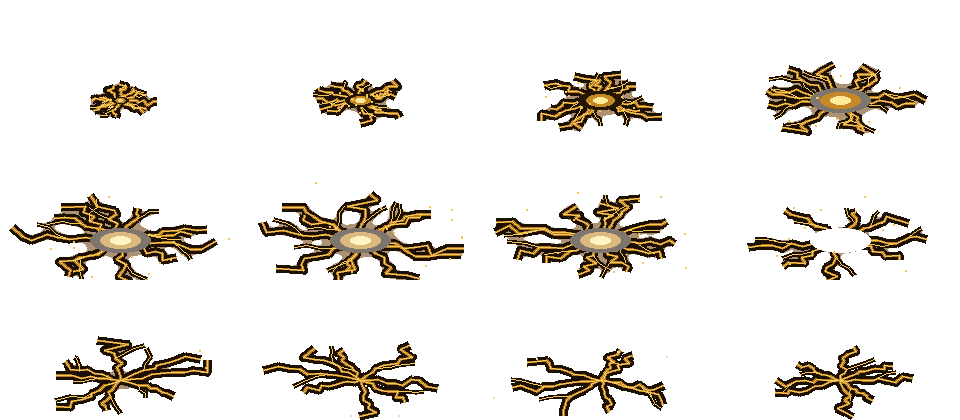
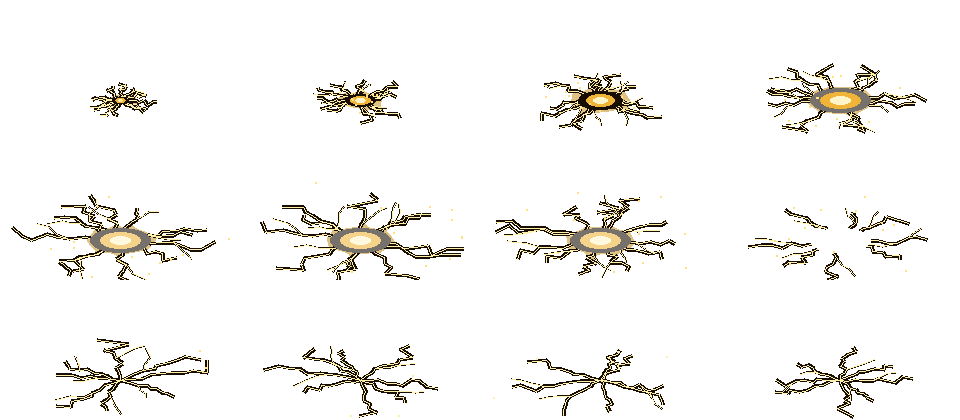
Kiếm: khôi phục bùa Thiên Xu, giảm vệt Hồi Phong, sét C chạm đất + sét tỏa mỏng, cự kiếm PixelLab pixel thật
Claude-Session: https://claude.ai/code/session_01QQj46rsF4z2ee4KuP8oJja

diff --git a/game/index.html b/game/index.html
@@ -2399,7 +2399,7 @@ const WEAPONS={
     const FIVE=[0,1,2,3,4].map(i=>{const an=-Math.PI/2+i*TAU/5;return{x:tx+Math.cos(an)*R*0.72,y:ty+Math.sin(an)*R*0.72*0.55}});
     if(vok('bagua_vang'))fx({k:'img',n:'bagua_vang',x:tx,y:ty+4,s0:0.5,s1:R*2.3/220,sy:0.55,spin:0.9,T:1.5,al:0.9,gr:1});
     if(vok('bua_vang'))FIVE.forEach((q,i)=>fx({k:'bua',n:'bua_vang',x0:q.x+rnd(-20,20),y0:q.y-300,x1:q.x,y1:q.y-18,fl:0.3+i*0.05,rt:(i%2?0.2:-0.2),T:1.3}));
-    later(0.55,()=>{for(const e of enemiesIn(tx,ty,R))hit(e,dmg,H({kb:140,stun:0.5}),tx,ty);G.shake=Math.max(G.shake||0,8);fx({k:'ring',x:tx,y:ty,r0:20,r1:R,c:'#ffd45a',T:0.4});fx({k:'ring',x:tx,y:ty,r0:10,r1:R*0.64,c:'#4a3006',T:0.5});burst(tx,ty,'#ffd45a',14);burst(tx,ty,'#3a2606',10);const NO=vok('set_no_vang')?'set_no_vang':'set_no_do';if(vok(NO)){fx({k:'sp',s:NO,x:tx,y:ty+4,sc:1.7,T:0.75,al:0.78});later(0.14,()=>{fx({k:'sp',s:NO,x:tx,y:ty+4,sc:1.1,T:0.6,al:0.65})},null)}if(vok('set_bolt_vang'))FIVE.forEach((q,i)=>{later(i*0.05,()=>{fx({k:'sp',s:'set_bolt_vang',x:q.x,y:q.y,sc:1.4,T:0.6,al:1});fx({k:'ring',x:q.x,y:q.y,r0:4,r1:30,c:'#fff0a0',T:0.3})},null)});sfx('sword_hit',0.7,0.1)},null);
+    later(0.55,()=>{for(const e of enemiesIn(tx,ty,R))hit(e,dmg,H({kb:140,stun:0.5}),tx,ty);G.shake=Math.max(G.shake||0,8);fx({k:'ring',x:tx,y:ty,r0:20,r1:R,c:'#ffd45a',T:0.4});fx({k:'ring',x:tx,y:ty,r0:10,r1:R*0.64,c:'#4a3006',T:0.5});burst(tx,ty,'#ffd45a',14);burst(tx,ty,'#3a2606',10);const NO=vok('set_no_vang')?'set_no_vang':'set_no_do';if(vok(NO)){fx({k:'sp',s:NO,x:tx,y:ty+4,sc:1.7,T:0.75,al:0.78});later(0.14,()=>{fx({k:'sp',s:NO,x:tx,y:ty+4,sc:1.1,T:0.6,al:0.65})},null)}if(vok('set_bolt_vang'))FIVE.forEach((q,i)=>{later(i*0.05,()=>{fx({k:'sp',s:'set_bolt_vang',x:q.x,y:q.y,sc:1.4,T:0.6,al:1});fx({k:'ring',x:q.x,y:q.y,r0:4,r1:34,c:'#fff0a0',T:0.3});fx({k:'ring',x:q.x,y:q.y,r0:2,r1:16,c:'#ffffff',T:0.16});if(vok(NO))fx({k:'sp',s:NO,x:q.x,y:q.y+2,sc:0.5,T:0.5,al:0.9});burst(q.x,q.y,'#ffe08a',9);G.shake=Math.max(G.shake||0,2)},null)});sfx('sword_hit',0.7,0.1)},null);
     notice('Thái Thượng Trảm Ma')}},
  ]},
  quyen:{name:'Quyền',g:'拳',role:'Cận chiến, liên kích, cương khí',tr:'Liên quyền, quyền khí xuyên, chấn địa, liên hoàn cương quyền',kit:[
@@ -3359,12 +3359,12 @@ function updZones(dt){
   if(z.kind==='blades'&&!z.sw){z.rot+=dt*5;for(let i=0;i<z.n;i++){const a=z.rot+i*TAU/z.n,bx=z.x+Math.cos(a)*z.r,by=z.y-10+Math.sin(a)*z.r*0.8;for(const e of enemiesIn(bx,by,16)){if((z.hm.get(e)||0)>G.t)continue;z.hm.set(e,G.t+0.35);hit(e,z.dmg,z.o,z.x,z.y)}}}
   else if(z.kind==='blades'){/* Linh Kiếm Hộ Pháp: phi kiếm bay vòng (chu kỳ 3,2s như bản gốc), thấy quái gần thì lao tới chém rồi quay về */
    z.rot+=dt*TAU/3.2;const RX=92*Ar(),RY=55*Ar();
-   for(let i=0;i<z.n;i++){const s=z.sw[i],a=z.rot+i*TAU/z.n,ox=z.x+Math.cos(a)*RX,oy=z.y-28+Math.sin(a)*RY;if(z.passive){if(!s.on)continue;s.life-=dt;if(s.life<=0&&s.st===0){s.on=0;fx({k:'ring',x:s.x,y:s.y,r0:6,r1:26,c:'#ffe08a',T:0.22});continue}}s.t=(s.t||0)+dt;s.tr=s.tr||[];s.tr.push([s.x,s.y]);if(s.tr.length>14)s.tr.shift();
+   for(let i=0;i<z.n;i++){const s=z.sw[i],a=z.rot+i*TAU/z.n,ox=z.x+Math.cos(a)*RX,oy=z.y-28+Math.sin(a)*RY;if(z.passive){if(!s.on)continue;s.life-=dt;if(s.life<=0&&s.st===0){s.on=0;fx({k:'ring',x:s.x,y:s.y,r0:6,r1:20,c:'#b89a55',T:0.18});continue}}s.t=(s.t||0)+dt;s.tr=s.tr||[];s.tr.push([s.x,s.y]);if(s.tr.length>14)s.tr.shift();
     if(s.st===0){const px=s.x,py=s.y;s.x=ox;s.y=oy;s.ang=a+Math.PI/2;
      if(z.t>s.nx&&z.t<z.T-0.5){let best=null,bd=1e9;for(const e of enemiesIn(z.x,z.y,240)){if(e.dead||e.brk)continue;const dd=Math.hypot(e.x-z.x,e.y-z.y);if(dd<bd&&!z.sw.some(q=>q!==s&&q.e===e&&q.st===1)){bd=dd;best=e}}
       if(best){s.st=1;s.t=0;s.e=best;s.fx0=s.x;s.fy0=s.y}else s.nx=z.t+0.25}}
     else if(s.st===1){const e=s.e,tx=e.x,ty=e.y-(e.r||14)*1.2,k=Math.min(1,s.t/0.16);s.ang=Math.atan2(ty-s.fy0,tx-s.fx0);s.x=s.fx0+(tx-s.fx0)*k;s.y=s.fy0+(ty-s.fy0)*k;
-     if(k>=1){if(!e.dead){hit(e,z.dmg,z.o,s.x,s.y);hitFx(s.x,s.y,Math.atan2(ty-s.fy0,tx-s.fx0),0.9)}s.st=2;s.t=0;s.fx0=s.x;s.fy0=s.y;s.e=null}}
+     if(k>=1){if(!e.dead){hit(e,z.dmg,z.o,s.x,s.y);hitFx(s.x,s.y,Math.atan2(ty-s.fy0,tx-s.fx0),0.6,0.7,0.14)}s.st=2;s.t=0;s.fx0=s.x;s.fy0=s.y;s.e=null}}
     else{const k=Math.min(1,s.t/0.24),q=k*k*(3-2*k);s.x=s.fx0+(ox-s.fx0)*q;s.y=s.fy0+(oy-s.fy0)*q;s.ang=Math.atan2(oy-s.fy0,ox-s.fx0)+Math.PI;if(k>=1){s.st=0;s.nx=z.t+0.55}}}}
   else if(z.kind==='staffx'){const k=z.t/z.T,e=k<0.45?1-Math.pow(1-k/0.45,3):k<0.72?1:1-Math.pow((k-0.72)/0.28,1.6);z.e=e;const L=40+z.len*e,ux=Math.cos(z.ta)*z.fc,uy=Math.sin(z.ta),hx=P.x+z.fc*(-27),hy=P.y-63;z.x=P.x;z.y=P.y;
    if(!z.tip&&e>=0.97){z.tip=1;if(vok('wk_hit'))fx({k:'sp',s:'wk_hit',x:hx+ux*L,y:hy+uy*L,sc:0.8,f0:2,f1:5,T:0.18});if(vok('wk_stomp'))fx({k:'sp',s:'wk_stomp',x:hx+ux*L,y:hy+uy*L+16,sc:0.9,f0:1,T:0.45,al:0.9});fx({k:'ring',x:hx+ux*L,y:hy+uy*L,r0:14,r1:80,c:'#ffe9a0',T:0.32});burst(hx+ux*L,hy+uy*L,'#ffd36a',14)}
@@ -3604,7 +3604,7 @@ function drawZone(z){
  else if(z.kind==='blades'&&z.sw&&vok('hp_guard')){const S0=0.88*Ar();
   const wart0=HERO.wg?heroWeaponArt(HERO.wg):null,wart=wart0&&WPN[wart0+'_f']?wart0+'_f':wart0,wk=wart0?Math.max(0.8,58/WPN[wart0][0])*Ar():0;/* kiếm mặc định chỉ có lưỡi (chuôi nằm dưới nắm tay): kiếm bay dùng bản có chuôi _f (PixelLab edit-images-v2) */
   for(const s of z.sw){if(z.passive&&!s.on)continue;const tr=s.tr||[];/* vệt bay: 2 nét mảnh như bản gốc (lớp sáng rộng mờ + lõi mảnh) */
-   if(tr.length>2){for(const [wd,col] of [[12,'rgba(255,214,110,.16)'],[1.6,'rgba(255,232,160,.7)']]){c.strokeStyle=col;c.lineCap='round';for(let i=1;i<tr.length;i++){c.lineWidth=wd*S0*(i/tr.length);c.beginPath();c.moveTo(tr[i-1][0],tr[i-1][1]);c.lineTo(tr[i][0],tr[i][1]);c.stroke()}}}
+   if(tr.length>2){for(const [wd,col] of [[10,'rgba(255,214,110,.05)'],[1.4,'rgba(255,232,160,.3)']]){c.strokeStyle=col;c.lineCap='round';for(let i=1;i<tr.length;i++){c.lineWidth=wd*S0*(i/tr.length);c.beginPath();c.moveTo(tr[i-1][0],tr[i-1][1]);c.lineTo(tr[i][0],tr[i][1]);c.stroke()}}}
    c.save();c.translate(s.x,s.y);if(wart){c.rotate(s.ang);c.scale(wk,wk);c.translate(-WPN[wart][4]/2+WPN[wart][2]*0,0);drawWeaponOutline(c,wart,1.3/wk);drawWeaponArt(c,wart,0,0,1);}else{c.rotate(s.ang-Math.PI/2);c.scale(S0,S0);c.drawImage(VFX.hp_guard,-64,-64,128,128)}c.restore()}}
  else if(z.kind==='blades'){c.globalCompositeOperation='lighter';for(let i=0;i<z.n;i++){const an=z.rot+i*TAU/z.n,bx=z.x+Math.cos(an)*z.r,by=z.y-10+Math.sin(an)*z.r*0.8;c.save();c.translate(bx,by);c.rotate(an+Math.PI/2);if(vok('wanjian_sword')){c.globalCompositeOperation='source-over';c.drawImage(VFX.wanjian_sword,-30,-36,60,60);c.globalCompositeOperation='lighter';c.restore();continue}c.fillStyle='rgba(120,200,255,.35)';ell(0,0,7,20);c.fillStyle='#dff2ff';c.beginPath();c.moveTo(0,-18);c.lineTo(3,4);c.lineTo(0,9);c.lineTo(-3,4);c.fill();c.restore()}}
  else if(z.kind==='vkx'){/* VẠN KIẾM QUY TÔNG (ultimate, 24/11 làm lại theo video mod kiếm băng): nền tối đi + trận pháp rune xoay dưới chân + 8 kiếm CẦM TAY nhô lên từ đất (cột sáng, tia điện, phát sáng) + đại kiếm giữa trận; 6 đợt bay theo làn ngắm (1,2 s + 0,32 s/đợt) kèm luồng sáng quét làn, đại kiếm phóng cuối */
@@ -3642,11 +3642,11 @@ function drawZone(z){
   if(vok('bagua_vang')){const k0=clamp(tt/0.7,0,1),pul=1+Math.sin(G.t*4)*0.015;c.save();c.translate(z.x,z.y);c.scale(1,z.ry/z.rx);c.rotate(G.t*0.35);c.globalAlpha=0.92*ringA*k0;c.imageSmoothingEnabled=false;const D=z.rx*2.38*(0.55+0.45*k0)*pul;c.drawImage(VFX.bagua_vang,-D/2,-D/2,D,D);c.restore()}
   c.save();c.globalAlpha=0.55*ringA;c.strokeStyle='#e8c25a';c.lineWidth=1.5;c.beginPath();c.ellipse(z.x,z.y,z.rx,z.ry,0,0,TAU);c.stroke();c.restore();
   for(let i=0;i<N;i++){const ph=i*TAU/N-0.6+(tt>z.land?(tt-z.land)*TAU/4.2:0),px=z.x+Math.cos(ph)*z.rx,py=z.y+Math.sin(ph)*z.ry,ti=0.1+i*0.14,k=clamp((tt-ti)/0.4,0,1);items.push({px,py,yo:-(1-k*k)*z.h-outk*outk*90,al:Math.min(1,k*3)*(1-outk),k})}
-  items.sort((a,b)=>a.py-b.py);for(const it of items){if(it.al<=0.01)continue;c.save();c.globalAlpha=0.3*it.al*Math.min(1,it.k*2);c.fillStyle='#0b1226';c.beginPath();c.ellipse(it.px,it.py,9,4,0,0,TAU);c.fill();c.restore();c.save();c.globalAlpha=it.al;c.imageSmoothingEnabled=true;c.imageSmoothingQuality='high';c.translate(it.px,it.py+it.yo);c.scale(s,s);c.drawImage(CKI,-W/2,-Hh);c.restore();}}
+  items.sort((a,b)=>a.py-b.py);for(const it of items){if(it.al<=0.01)continue;c.save();c.globalAlpha=0.3*it.al*Math.min(1,it.k*2);c.fillStyle='#0b1226';c.beginPath();c.ellipse(it.px,it.py,9,4,0,0,TAU);c.fill();c.restore();c.save();c.globalAlpha=it.al;c.imageSmoothingEnabled=true;c.imageSmoothingQuality='high';c.translate(it.px,it.py+it.yo);c.scale(s,s);c.drawImage(CKI,-W/2,-Hh);c.restore();if(vok('bua_vang')&&it.k>0.9){const sw=Math.sin(G.t*3+it.px*0.05)*0.18;c.save();c.globalAlpha=it.al;c.imageSmoothingEnabled=false;c.translate(Math.round(it.px),Math.round(it.py+it.yo-Hh*s*0.78));c.rotate(sw);c.scale(0.9,0.9);c.drawImage(VFX.bua_vang,-8,0);c.restore()}}}
  else if(z.kind==='vkbig'){const art0=z.art,art=(WPN[art0+'_f']&&WIMG[art0+'_f']&&WIMG[art0+'_f'].complete)?art0+'_f':art0,w=WPN[art],FALL=0.55,sc=3.4;
-  const k=Math.min(1,z.t/FALL),e=k*k,top=z.y-(CKI.complete&&CKI.naturalWidth?470:460),ty=top+(z.y-top)*e,al=z.t<FALL?1:Math.max(0,1-(z.t-FALL-0.7)/0.45);
+  const k=Math.min(1,z.t/FALL),e=k*k,top=z.y-(CKI.complete&&CKI.naturalWidth?420:460),ty=top+(z.y-top)*e,al=z.t<FALL?1:Math.max(0,1-(z.t-FALL-0.7)/0.45);
   c.save();c.translate(z.x,z.y);c.scale(1,0.4);c.globalAlpha=0.35*Math.min(1,k*1.4)*(z.t<FALL?1:al);c.fillStyle='#0b1226';c.beginPath();c.arc(0,0,22+60*k,0,TAU);c.fill();c.restore();
-  if(al>0.01&&CKI.complete&&CKI.naturalWidth){c.save();c.globalAlpha=al;c.imageSmoothingEnabled=false;c.translate(Math.round(z.x),Math.round(ty));c.scale(1.3,1.3);c.drawImage(CKI,-CKI.naturalWidth/2,-CKI.naturalHeight);c.restore()}
+  if(al>0.01&&CKI.complete&&CKI.naturalWidth){c.save();c.globalAlpha=al;c.imageSmoothingEnabled=false;const nz=Math.max(1,ZOOM*DPR),ks=Math.max(1,Math.round(nz))/nz;c.translate(Math.round(z.x),Math.round(ty));c.scale(ks,ks);c.drawImage(CKI,-CKI.naturalWidth/2,-CKI.naturalHeight);c.restore()}
   else if(al>0.01){c.save();c.globalAlpha=al;c.translate(z.x,ty);c.scale(sc,sc);c.rotate(Math.PI/2);c.translate(-(w[0]-w[2]),0);drawWeaponOutline(c,art,1.2/sc);drawWeaponArt(c,art,0,0,1);c.restore()}}
  else if(z.kind==='qypalm'&&vok('qy_hand')){/* 25/11 BÀN TAY QUỶ (gói Wuxia 04_Rulai): chủ game chê "không giống": bản gốc chỉ thấy bàn tay ~0,2 s cuối và nằm ngang. Nay: cột hào quang vàng từ trời, bàn tay VÀNG khổng lồ dựng đứng (ngón hướng lên) hiện sớm, lơ lửng to dần rồi giáng xuống; chạm đất: chớp vàng, vết chưởng in sáng, đá và bụi bắn ra */const D=0.95,tt=z.t;
   if(tt<D){c.save();c.translate(z.x,z.y);c.scale(1,0.4);c.globalAlpha=0.4*Math.pow(tt/D,3);c.fillStyle='#10061c';c.beginPath();c.arc(0,0,40+190*Math.pow(tt/D,3),0,TAU);c.fill();c.globalCompositeOperation='lighter';c.globalAlpha=0.6*(0.3+0.7*(1-Math.pow(tt/D,3)));c.strokeStyle='#9a70ff';c.lineWidth=3;c.beginPath();c.arc(0,0,220+80*(1-Math.pow(tt/D,3)),0,TAU);c.stroke();c.restore()}

diff --git a/cong_cu/claude/set_no_vang_mong.py b/cong_cu/claude/set_no_vang_mong.py
@@ -1,0 +1,56 @@
+"""(25/11 bản MỎNG VÀNG cho C Thái Thượng Trảm Ma; bản gốc đỏ dày nằm ở git) Sét NỔ TỎA ra từ mũi cự kiếm Vạn Kiếm (24/11, tự làm). Ra game/assets/vfx/set_no_do.png: 12 khung 240x140, 4 cột, tâm nổ ở (120,100).
+Các tia sét gấp khúc bung ra mọi hướng quanh tâm (ép dẹt theo mặt đất, vài tia bắn lên), đổi hình mỗi khung; viền đen, thân đỏ, lõi sáng."""
+import random,math
+from PIL import Image,ImageDraw,ImageFilter
+W,H=240,140;CX,CY=120,100;N=12;COLS=4
+def arc(rnd,ang,length,flat=0.5,seg=9,amp=7):
+    pts=[(CX,CY)]
+    for i in range(1,seg+1):
+        t=i/seg;r=length*t;a=ang+rnd.uniform(-0.13,0.13)*(0.4+t)
+        up=-abs(math.sin(ang))*0.0
+        pts.append((CX+math.cos(a)*r+rnd.uniform(-amp,amp)*0.3,CY+math.sin(a)*r*flat+rnd.uniform(-amp,amp)*0.4*flat))
+    return pts
+def frame(f):
+    rnd=random.Random(500+f*13)
+    im=Image.new('RGBA',(W,H),(0,0,0,0))
+    q=f/(N-1);grow=min(1,f/4.0);fade=1.0 if f<=6 else max(0,1-(f-6)/5.5)
+    arcs=[]
+    if fade>0:
+        n=12 if f<=6 else 8
+        for i in range(n):
+            ang=i*math.tau/n+rnd.uniform(-0.35,0.35)
+            L=rnd.uniform(70,112)*(0.35+0.65*grow)*(0.8+0.2*fade)
+            main=arc(rnd,ang,L,flat=0.42)
+            arcs.append((main,1.0))
+            if len(main)>5 and rnd.random()<0.8:
+                k=rnd.randint(3,6);bx,by=main[k];ba=ang+rnd.choice([-1,1])*rnd.uniform(0.5,0.9)
+                bp=[(bx,by)]
+                for j in range(1,4):
+                    bp.append((bx+math.cos(ba)*L*0.13*j+rnd.uniform(-3,3),by+math.sin(ba)*L*0.13*j*0.55+rnd.uniform(-2,2)))
+                arcs.append((bp,0.6))
+    glow=Image.new('L',(W,H),0);gd=ImageDraw.Draw(glow)
+    for pl,s in arcs:gd.line(pl,fill=255,width=max(2,int(3*s)),joint='curve')
+    ell=int(34*min(1,0.4+grow)*fade+2)
+    gd.ellipse([CX-ell,CY-int(ell*0.45),CX+ell,CY+int(ell*0.45)],fill=200)
+    glow=glow.filter(ImageFilter.GaussianBlur(3))
+    g=Image.new('RGBA',(W,H),(200,150,40,0));g.putalpha(glow.point(lambda v:int(min(255,v*0.3*fade))));im.alpha_composite(g)
+    d=ImageDraw.Draw(im)
+    for pl,s in arcs:d.line(pl,fill=(24,14,4,255),width=int(3*s)+1,joint='curve')
+    for pl,s in arcs:d.line(pl,fill=(240,180,56,255),width=1,joint='curve')
+    for pl,s in arcs:d.line(pl,fill=(255,240,170,255),width=1,joint='curve')
+    # chớp lõi tại tâm nổ
+    if f<=7:
+        a=int(255*(1-f/8.0));rx=int(8+22*min(1,f/3.0));ry=max(3,int(rx*0.42))
+        d.ellipse([CX-rx,CY-ry,CX+rx,CY+ry],fill=(24,14,4,int(a*0.9)))
+        d.ellipse([CX-rx*2//3,CY-ry*2//3,CX+rx*2//3,CY+ry*2//3],fill=(240,180,56,a))
+        d.ellipse([CX-rx//3,CY-ry//3,CX+rx//3,CY+ry//3],fill=(255,245,200,a))
+    # tia lửa
+    for _ in range(14 if f<8 else 4):
+        ang=rnd.uniform(0,math.tau);r=rnd.uniform(30,115)*grow;sx=CX+math.cos(ang)*r;sy=CY+math.sin(ang)*r*0.5-rnd.uniform(0,18)*q
+        d.rectangle([sx,sy,sx+1,sy+1],fill=(255,225,130,int(255*fade)))
+    a=im.getchannel('A').point(lambda v:0 if v<50 else 255 if v>150 else 150);im.putalpha(a)
+    return im
+sheet=Image.new('RGBA',(W*COLS,H*((N+COLS-1)//COLS)),(0,0,0,0))
+for f in range(N):sheet.paste(frame(f),((f%COLS)*W,(f//COLS)*H))
+sheet.save('game/assets/vfx/set_no_vang.png')
+

diff --git a/nguon/pixellab/cukiem2/gen.py b/nguon/pixellab/cukiem2/gen.py
@@ -1,0 +1,8 @@
+import json,base64,importlib.util
+spec=importlib.util.spec_from_file_location('pl','/home/user/hoathan/cong_cu/claude/pl.py');pl=importlib.util.module_from_spec(spec);spec.loader.exec_module(pl)
+ST=" Pixel art game weapon sprite, dark gloomy Chinese wuxia style, muted palette, thick black outline, rich pixel shading, single isolated object, transparent background, no hand, no person, no text."
+D="a giant ancient Chinese jian greatsword pointing straight DOWN, long wide dark blue-black steel blade with a bright pale-blue central fuse line and etched talisman runes, sharp pointed tip at the bottom, ornate gold-bronze cross guard, leather wrapped long grip, jade pommel at the top, perfectly vertical symmetric"
+for seed in (3,17,41):
+    j=pl.req('POST','/create-image-pixflux',{"description":D+ST,"image_size":{"width":80,"height":288},"no_background":True,"detail":"highly detailed","outline":"single color black outline","shading":"detailed shading","seed":seed})
+    im=j['image'];im=im.get('base64') if isinstance(im,dict) else im
+    open(f'/home/user/hoathan/nguon/pixellab/cukiem2/s{seed}.png','wb').write(base64.b64decode(im.split(',')[-1]));print(seed,'ok',flush=True)

diff --git a/CLAUDE.md b/CLAUDE.md
@@ -714,3 +714,5 @@ Quyết định (chủ game không chọn riêng nên lấy đề xuất): hình
 - (25/11 đêm) **GÓI TÀI NGUYÊN (`PACKS`, `packWant`, `window.__packs()`)**: mọi thứ tải theo gói, chỉ kéo khi cần. Thêm nội dung mới: **map** = khai báo `MAPS`/`MM` (tự vào `packMapNames`, `prefetchMap`); **quái** = thêm vào `CHM`/`ESPR` và `pool`/`xt` của chặng hoặc map (`monsForFloor`, `monsForRoute`); **phái mới** = thêm tiền tố VFX vào `PACKS.vfx`; **thần tướng** = `PACKS.vfx.god` + sheet `god_*`. Kiểm ngân sách sau khi thêm: `bash cong_cu/claude/pack_check.sh` (`pack_dump.js` đo, `pack_budget.py` so ngưỡng: mở game ≤5 MB, map ≤3 MB/45 MB giải nén, VFX phái ≤3,5/80, quái mỗi tầng ≤2,5/40, thần tướng ≤1/25; thoát mã 1 nếu vượt). Kết quả hiện tại: mọi gói đạt (mở game 4,8 MB/159 file; map lớn nhất 1,2 MB; VFX phái lớn nhất 2,5 MB Trượng). Đã kiểm lại 8 map, quái tầng 1/18, 4 phái, Thần Giáng, màn tạo nhân vật: 0 lỗi. Thêm ảnh mới nhớ chạy `png_palette.py`.
 
 - (25/11 đêm) **Chủ game: bỏ bùa dính trên kiếm, "không phải skill nào nhét bùa chú vào cũng đẹp".** Đã bỏ lá bùa ở chuôi: phi kiếm Linh Kiếm Hộ Pháp, 8 kiếm Vạn Kiếm Tru Ma, 7 kiếm Thiên Cương Trấn Ma Trận. Bùa còn lại (chưa bị chê): bát quái vàng/đỏ dưới đất, bùa Q dán quái, ngũ lôi phù của C, ấn bùa trên đầu quái. **Vạn Kiếm: kiếm vẽ pixel thật** (1 pixel ảnh = số nguyên pixel màn hình, `wk=round(ZOOM*DPR)/(ZOOM*DPR)`, bỏ phóng 1,7×Ar; đại kiếm ×2 nguyên thay ×2,4), nên kiếm nhỏ hơn trước nhưng nét. Ảnh: `nguon/tham_chieu/vankiem_pixel_that_khong_bua.png`, `hoiphong_khong_bua.png`.
+
+- (25/11 đêm) **Chủ game chỉnh Kiếm (có lệnh dùng PixelLab riêng cho cự kiếm, 3 lượt, còn ~1.418):** (1) Thiên Cương Trấn Ma Trận: GIỮ bùa treo kiếm như cũ (khôi phục). (2) Linh Kiếm Hộ Pháp: giảm vệt vàng khi kiếm đánh quái (vệt bay alpha .16→.05 / .7→.3, chớp trúng 0,9→0,6 dẹt, vòng tan 26→20 màu nhạt). (3) **C Thái Thượng Trảm Ma:** mỗi tia sấm chạm đất nay có chớp trắng + vòng + sét tỏa nhỏ `set_no_vang` sc 0,5 + hạt + rung nhẹ (trước trông như không đánh xuống đất); sét tỏa từ chân cự kiếm làm MỎNG (`cong_cu/claude/set_no_vang_mong.py`: viền 3, thân 1 px, quầng nhạt, vàng). (4) **Cự kiếm `wpn/cukiem.png` vẽ lại bằng PixelLab pixflux 80×288 (seed 17, `nguon/pixellab/cukiem2/`), 54×273 sau cắt, vẽ ĐÚNG pixel thật (không phóng 1,3 nữa; hệ số = số nguyên pixel màn hình)**. Ảnh: `nguon/tham_chieu/C_cukiem_pixel_that_set_mong.png`. Lệnh CẤM PIXELLAB vẫn hiệu lực với việc khác.
